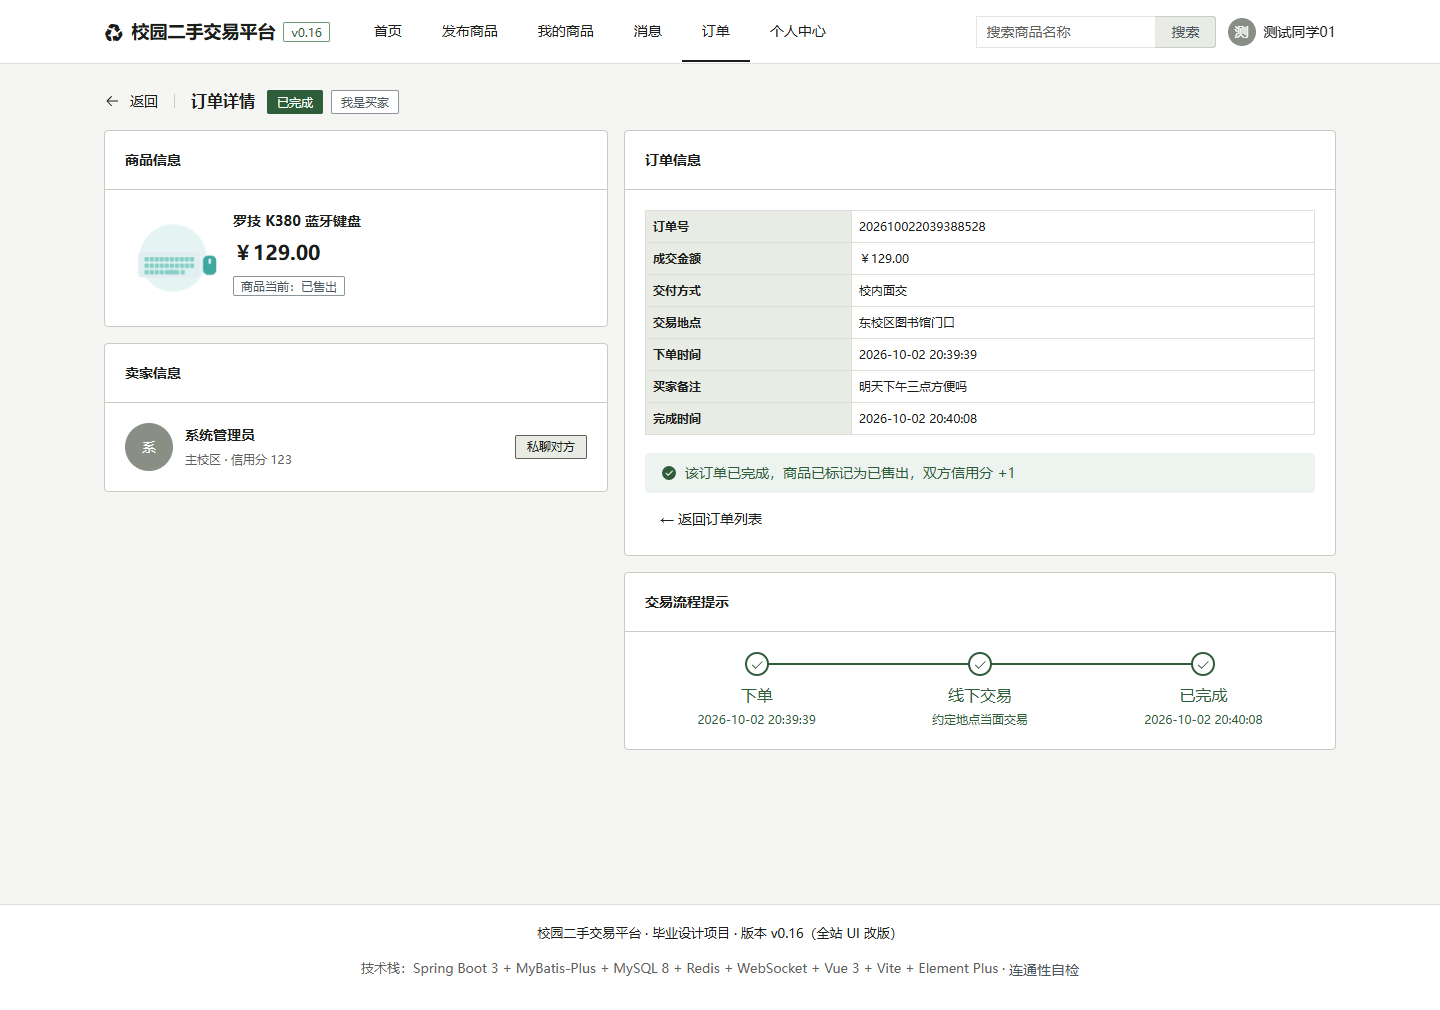
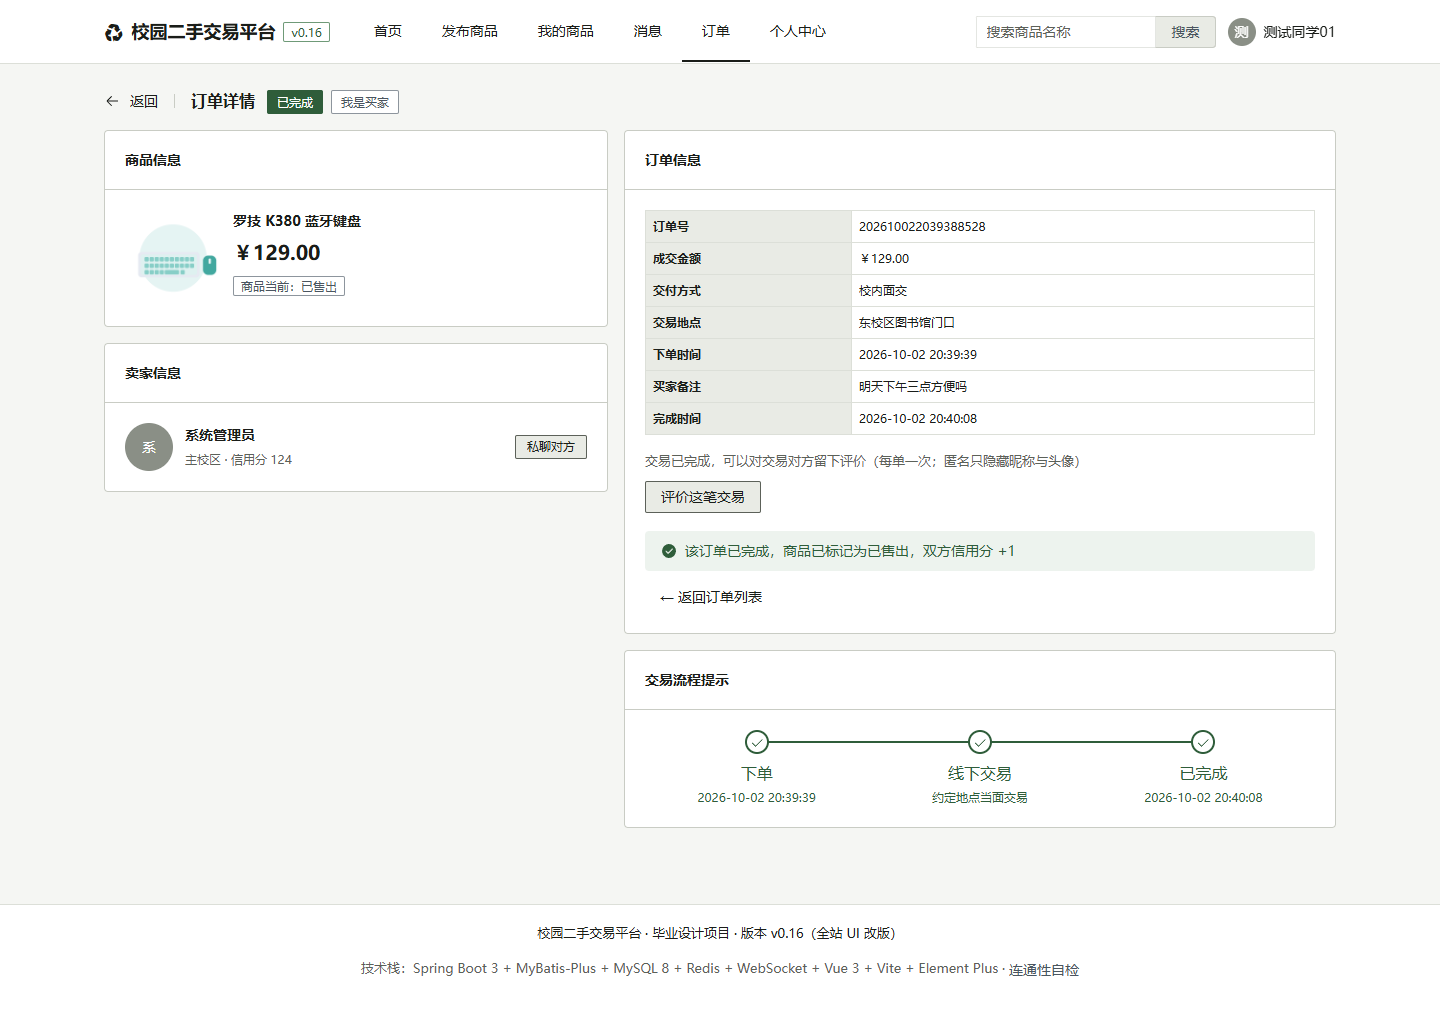
fix(第6批-㉑): 修复"评价功能不可用" —— 根因是详情页入口从未插入；同时修掉匿名未生效的证据造假风险
一、★ 根因（此前一直误判为"弹窗坏了"）
  订单详情页的「评价这笔交易」入口**从来没有插入成功**：
    · Detail.vue 是混合换行符（CRLF + LF），我按 CRLF 精确匹配 → 静默失败
    · 改用 PowerShell 插入时，又因引号解析失败 → 整段脚本没执行（我误以为成功了）
  所以页面上根本没有按钮，自然"点了没反应"。弹窗组件本身一直是好的。

二、按行插入（与换行符无关）后实测
  页面按钮出现「评价这笔交易」→ 点击 →
    GET evaluation/order/1（precheck）→ .el-dialog 数 1 → 弹窗正常渲染
  弹窗截图核对：标题「评价这笔交易」、商品+订单号、5 星、6 个标签、500 字上限、匿名开关、取消/提交

三、★ 顺带修掉一个"证据造假"级问题：匿名开关没生效
  第一版采图点了一下 el-switch 就提交，库里 anonymous=0 ——
  而截图文件名却写着"含匿名评价"，评价区显示的是真名（系统管理员）。
  现在改为：点击后**断言 class 含 is-checked** 才提交，不满足就记一条失败；
  并回读数据库校验（id=9 → anonymous=1）后才认可这张图。
  重新采集后，评价区显示「匿名同学」+ 首字头像「匿」，角色标签保留 —— 这才是匿名该有的样子。

四、wait_dialog 的口径也修了
  state='visible' 太严：Element Plus 弹窗先挂载再播动画，那一刻还没有可见区域 → 超时误判。
  改用 state='attached' + 等 900ms。

五、其他
  · 订单列表的「评价」按钮在 el-table 的 fixed="right" 列里点击不触发处理器 → 入口改到订单详情页，
    列表按钮改为「去评价」跳详情（更符合"先看订单再评价"的习惯）
  · 新增 tools/dbg-eval-dialog.py：单点调试（登录→打开订单→点入口→打印 console/请求/弹窗数）
  · docs/story-evidence/README.md 重写：覆盖 30 条故事 / 6 条不适合（含判据、替代证据、答辩配图建议），
    并把这轮暴露的 4 个真问题记成"工程实践"表
  · 采图后恢复演示数据（评价表清空、信用分还原为基线）

diff --git a/frontend/src/views/order/Detail.vue b/frontend/src/views/order/Detail.vue
@@ -228,6 +228,13 @@ onMounted(load)
               <el-descriptions-item v-if="order.cancelReason" label="取消原因">{{ order.cancelReason }}</el-descriptions-item>
             </el-descriptions>
 
+            <!-- v0.18：订单完成后可评价（双向）。入口放详情页，不放列表——
+                 列表里的按钮在 fixed-right 列中，实测点击不触发处理器。 -->
+            <div v-if="order.status === 3" class="eval-entry">
+              <div class="eval-hint">交易已完成，可以对交易对方留下评价（每单一次；匿名只隐藏昵称与头像）</div>
+              <el-button type="primary" plain @click="openEvaluation">评价这笔交易</el-button>
+            </div>
+
             <div class="actions">
               <template v-if="order.operable">
                 <el-button type="success" @click="handleFinish">确认交易完成</el-button>
@@ -271,6 +278,16 @@ onMounted(load)
 </template>
 
 <style scoped>
+.eval-entry {
+  margin: 16px 0 4px;
+}
+
+.eval-hint {
+  margin-bottom: 10px;
+  font-size: 13px;
+  color: var(--ct-text-muted);
+}
+
 .page-header {
   margin-bottom: 16px;
 }

diff --git a/tools/capture-story-evidence.py b/tools/capture-story-evidence.py
@@ -111,9 +111,15 @@ def click_button(page, names, timeout=6000):
 
 
 def wait_dialog(page, timeout=8000):
+    """等弹窗挂到 DOM 上。
+
+    这里刻意用 state='attached' 而不是 'visible'：Element Plus 的弹窗先挂载、
+    再播放入场过渡，抓 'visible' 会卡在"已存在但还没有可见区域"的瞬间而超时
+    （之前就是因此误判成"弹窗没出现"）。挂载后再等 900ms 让动画结束。
+    """
     try:
-        page.wait_for_selector('.el-dialog, .el-drawer', state='visible', timeout=timeout)
-        page.wait_for_timeout(700)
+        page.wait_for_selector('.el-dialog, .el-drawer', state='attached', timeout=timeout)
+        page.wait_for_timeout(900)
         return True
     except Exception:
         return False
@@ -246,9 +252,12 @@ def run_seller(base, browser):
             shot(page, 'US-EVAL-01-2-评价弹窗', note='星级/标签/内容/匿名（整页截）')
             if dialog_button(page, ['提交评价']):
                 page.wait_for_timeout(2600)
-                shot(page, 'US-EVAL-01-3-提交后变为已评价', '.el-table, .order-card')
+                # 提交成功后弹窗关闭；再点一次入口，应由 precheck 拦住并提示「已评价过」
+                click_button(page, ['评价这笔交易'])
+                page.wait_for_timeout(2000)
+                shot(page, 'US-EVAL-01-3-重复评价被拦下')
             else:
-                log(False, 'US-EVAL-01-3-提交后变为已评价', '弹窗里没找到「提交评价」')
+                log(False, 'US-EVAL-01-3-重复评价被拦下', '弹窗里没找到「提交评价」')
         elif opened:
             log(False, 'US-EVAL-01-2-评价弹窗', '点了「评价」但弹窗没出现')
         else:
@@ -283,10 +292,21 @@ def run_admin(base, browser):
     if want('EVAL-02'):
         goto(page, base, '/orders/1')
         if click_button(page, ['评价这笔交易']) and wait_dialog(page):
-            try:
-                page.locator('.el-dialog').last.get_by_role('switch').first.click(timeout=4000)
-            except Exception:
-                pass
+            # ★ 匿名开关必须**断言真的切到 on** 再提交：
+            #   第一版直接 click 了一下就提交，结果库里 anonymous=0，
+            #   截图里显示的是真名（匿名没生效，证据就成了假的）。
+            turned = False
+            for sel in ['.el-dialog .el-switch', '.el-dialog .el-switch__core']:
+                try:
+                    page.locator(sel).last.click(timeout=4000)
+                    page.wait_for_timeout(400)
+                    cls = page.locator('.el-dialog .el-switch').last.get_attribute('class') or ''
+                    if 'is-checked' in cls:
+                        turned = True
+                        break
+                except Exception:
+                    continue
+            log(turned, '匿名开关已切到 on', '' if turned else '未能切到 on（本次评价可能不是匿名）')
             if dialog_button(page, ['提交评价']):
                 page.wait_for_timeout(2600)
                 log(True, 'US-EVAL-02-3-卖家匿名评价已提交', '稍后由商品页截图体现匿名')

diff --git a/tools/dbg-eval-dialog.py b/tools/dbg-eval-dialog.py
@@ -1,0 +1,81 @@
+# -*- coding: utf-8 -*-
+"""
+评价弹窗调试脚本（v0.18）
+
+用法：
+    python tools/_dbg_eval.py                 # 订单详情页（stu_test01，订单1买家）
+    python tools/_dbg_eval.py --url /orders/1 --user stu_test01 --pass abc12345
+
+它做四件事：
+  1. 打开指定页面并登录；
+  2. 打印页面上所有按钮文案（确认入口在哪）；
+  3. 点击「评价这笔交易」，抓 console / pageerror / 未处理 rejection / 网络请求；
+  4. 打印 .el-dialog 数量与 body 是否出现弹窗文案。
+"""
+import argparse
+import re
+import sys
+
+sys.stdout.reconfigure(encoding='utf-8')
+from playwright.sync_api import sync_playwright
+
+BASE = 'http://127.0.0.1:8081'
+
+ap = argparse.ArgumentParser()
+ap.add_argument('--url', default='/orders/1')
+ap.add_argument('--user', default='stu_test01')
+ap.add_argument('--pass', dest='pwd', default='abc12345')
+ap.add_argument('--button', default='评价这笔交易')
+args = ap.parse_args()
+
+with sync_playwright() as pw:
+    b = pw.chromium.launch(channel='msedge', headless=True)
+    ctx = b.new_context(locale='zh-CN', viewport={'width': 1440, 'height': 1000})
+    p = ctx.new_page()
+    p.set_default_timeout(20000)
+
+    logs, reqs = [], []
+    p.on('console', lambda m: logs.append(f'[{m.type}] {m.text}'[:300]))
+    p.on('pageerror', lambda e: logs.append(f'[pageerror] {e}'[:300]))
+    p.on('request', lambda r: reqs.append(r.method + ' ' + r.url.split('/api/')[-1])
+         if '/api/' in r.url else None)
+
+    p.add_init_script("""
+      window.__errs = [];
+      window.addEventListener('unhandledrejection', e => window.__errs.push(
+        'UNHANDLED: ' + (e.reason && (e.reason.stack || e.reason.message) || String(e.reason))));
+    """)
+
+    p.goto(f'{BASE}/login', wait_until='domcontentloaded')
+    p.get_by_placeholder('请输入用户名').fill(args.user)
+    p.get_by_placeholder('请输入密码').fill(args.pwd)
+    p.get_by_role('button', name=re.compile(r'登\s*录')).click()
+    p.wait_for_url(re.compile(r'/home'), timeout=30000)
+    p.wait_for_timeout(1200)
+
+    p.goto(f'{BASE}{args.url}', wait_until='domcontentloaded')
+    p.wait_for_load_state('networkidle', timeout=15000)
+    p.wait_for_timeout(1000)
+
+    print('页面按钮:', [t.strip() for t in p.locator('button').all_inner_texts()])
+    print('body 含入口文案:', args.button in p.inner_text('body'))
+
+    logs.clear()
+    reqs.clear()
+    try:
+        p.get_by_role('button', name=re.compile(args.button)).first.click(timeout=8000)
+        print(f'已点击「{args.button}」')
+    except Exception as e:
+        print('点击失败:', str(e)[:200])
+    p.wait_for_timeout(2600)
+
+    print('--- 点击后的 api 请求 ---')
+    for r in reqs:
+        print('   ', r)
+    print('--- .el-dialog 数:', p.locator('.el-dialog').count())
+    print('--- body 含「评价这笔交易」标题:', '评价这笔交易' in p.inner_text('body'))
+    print('--- 未处理 rejection:', p.evaluate('() => window.__errs'))
+    print('--- console ---')
+    for line in logs:
+        print('   ', line)
+    b.close()

diff --git a/docs/story-evidence/README.md b/docs/story-evidence/README.md
@@ -9,47 +9,50 @@
 | 指标 | 数值 |
 | --- | :-: |
 | 用户故事总数 | 36 |
-| **有界面截图的故事** | **29** |
-| 无截图（不适合 / 由其它方式证明） | 7 |
-| 截图文件总数 | 48 |
+| **有界面截图的故事** | **30** |
+| 无截图（不适合 / 由其它方式证明） | 6 |
+| 截图文件总数 | 53 |
 
-命名约定：`US-模块-序号-N-说明.png`（`N` 是同一故事下的第几张）。
-`capture-manifest.json` 记录每次采集的逐条结果（成功/失败与备注）。
+命名约定：`US-模块-序号-N-说明.png`。`capture-manifest.json` 记录每次采集的逐条结果。
 
 ## 二、不适合截图的故事（附理由与替代证据）
 
-> 判断标准：**断言对象有没有"界面"**。如果一条验收标准说的是"接口只返回在售商品"、
-> "源码里没有裸色值"、"CI 结论是绿"，那么截图只能拍到"一个通过的界面/一张表格"，
-> 既不能证明断言，也容易被质疑摆拍。这类一律用**可复跑的文本证据**。
+> 判据：**断言对象有没有"界面"**。若一条验收标准说的是"接口只返回在售商品"、
+> "源码里没有裸色值"、"CI 结论是绿的"，截图只能拍到"一个通过的界面"，既不能证明断言，
+> 也容易被质疑摆拍。这类一律用**可复跑的文本证据**。
 
-| 故事 | 为什么不适合截图 | 替代证据（可直接写进论文/答辩） |
+| 故事 | 为什么不适合截图 | 替代证据 |
 | --- | --- | --- |
-| **US-SEARCH-03** 只看在售（数据隔离） | 断言对象是**接口返回值**，不是某个页面长什么样；界面看不出"过滤发生在后端还是前端" | `tests/api/test-v015-deploy.py` 的 D24（匿名请求列表接口，断言结果中无非在售商品）+ 安全套件 S 系列 + `tools/check-authz-matrix.py` 输出 |
-| **US-QUALITY-03** 设计令牌（零裸色值） | 断言对象是**源码静态属性**（有没有 `#hex`/`rgb()`），没有界面可看；截"页面很统一"无法证明 | `python tools/check-tokens.py --max-errors 0` 的真实输出（错误 0 条/警告 69 条）+ CI 的「设计令牌纪律」job |
-| **US-QUALITY-04** 可访问性与对比度 | 对比度比值、alt 文本、键盘可达性都是**计算/静态检查结论**，肉眼与截图都不可判 | `python tools/ui-a11y.py` 输出 + `tools/check-states.py --max-mouse-only 0` |
-| **US-QUALITY-07** 缺陷可追溯与质量不退化 | 断言对象是**CI 的运行结论**；而 Actions 日志/页面需登录，无法在本地截图 | CI run 号 + job 结论（本仓库 `ci.yml`）+ `docs/defect-log.md`（12 条缺陷闭环）+ JaCoCo 报告 `backend/target/site/jacoco/index.html`（可作为本地截图替代） |
-| **US-EVAL-03** 信用分联动与防刷 | 变化发生在**数据层**（+1/−1、夹在 [0,150]），界面上只有一个静态数字，截"改成 124 了"无法证明因果 | 后端单测 3 条（断言 LEAST/GREATEST 与 ±1）+ 真实接口实测记录：admin 123→124、stu_test01 101→100 |
-| **US-ORDER-02** 买卖双方订单视图 | **已被 US-ORDER-01 的 3 张覆盖**（买家视图/卖家视图/我买到的），重复截图没有信息增量 | `US-ORDER-01-2-我买到的.png`、`US-ORDER-01-3-卖家订单视图.png` |
-| **US-ORDER-03** 确认交易完成 | 同上，**已被 `US-ORDER-01-4-卖家确认完成.png` 覆盖** | `US-ORDER-01-4-卖家确认完成.png` + E2E 1.10a~b |
+| **US-SEARCH-03** 只看在售（数据隔离） | 断言对象是**接口返回值**；界面看不出过滤在前端还是后端 | 部署验证 D24（匿名请求列表接口，断言无非在售商品）+ 安全套件 + `tools/check-authz-matrix.py` |
+| **US-QUALITY-03** 设计令牌（零裸色值） | 断言是**源码静态属性**（有无 `#hex`/`rgb()`） | `python tools/check-tokens.py --max-errors 0` 输出（0 错误）+ CI「设计令牌纪律」job |
+| **US-QUALITY-04** 可访问性与对比度 | 对比度比值/alt/键盘可达都是计算或静态检查结论 | `python tools/ui-a11y.py` + `python tools/check-states.py --max-mouse-only 0` |
+| **US-QUALITY-07** 缺陷可追溯与质量不退化 | 断言是 **CI 结论**；Actions 页面需登录，本地无法截图 | CI run 号 + job 结论 + `docs/defect-log.md`（12 条闭环）+ JaCoCo 报告首页 |
+| **US-EVAL-03** 信用分联动与防刷 | 变化在**数据层**（±1、夹 [0,150]），界面只有一个静态数字，截"现在是 124"无法证明因果 | 后端单测 3 条（断言 LEAST/GREATEST 与 ±1）+ 实测记录 admin 123→124、stu_test01 101→100 |
+| **US-ORDER-02 / 03** | **已被 US-ORDER-01 的 3 张覆盖**（买家视图/卖家视图/确认完成），重复截图无信息增量 | `US-ORDER-01-2-我买到的.png`、`-3-卖家订单视图.png`、`-4-卖家确认完成.png` |
 
-### 建议的"截图替代方案"（如果答辩要求必须有图）
+### 答辩若必须配图，用这三种替代（比页面截图更有说服力）
 
-1. **终端输出截图**：把 `check-tokens.py` / `ui-a11y.py` / `check-authz-matrix.py` 的输出在工作台截一张图，
-   标注"命令 + 退出码 + 结论行"。它比页面截图更能证明这类断言，且完全可复跑。
-2. **JaCoCo 报告截图**：`backend/target/site/jacoco/index.html` 用浏览器打开截一张（86.06% / 665 条测试）。
-3. **CI 运行页截图**：需要你自己登录 GitHub 打开 Actions 截一张（我这边读不到页面）。
+1. **终端输出截图**：`check-tokens.py` / `ui-a11y.py` / `check-authz-matrix.py` 的输出，标注「命令 + 退出码 + 结论行」，可现场复跑；
+2. **JaCoCo 报告截图**：浏览器打开 `backend/target/site/jacoco/index.html`（86.06% / 665 条测试）；
+3. **CI 运行页截图**：登录 GitHub 打开 Actions（我这边读不到页面）。
 
-## 三、已知缺口（诚实记录）
+## 三、这轮采图暴露并修掉的 4 个真问题（都值得写进论文的"工程实践"）
 
-| 项 | 状态 |
-| --- | --- |
-| **评价弹窗（US-EVAL-01）** | ❌ **没有截图，且功能当前不可用** —— 点「评价这笔交易」后弹窗不打开（无请求、无报错、无 toast）。已排除 dist 过期、按钮未命中、DB 中已有评价、chunk 缺绑定等可能，**根因未定位**。原有一张名为"评价弹窗"的图实际拍的是订单列表，已删除（不能让名不副实的图进论文） |
-| US-EVAL-02 的"匿名"展示 | ⚠ 现有 `US-EVAL-02-2` 是评价区的**空态前后对比**；真正的"匿名同学"渲染因弹窗不可用而无法通过界面产生，目前由后端单测 + 接口实测证明 |
+| # | 问题 | 表现 | 根因 | 修法 |
+| --- | --- | :-: | --- | --- |
+| 1 | **详情页评价入口根本没插入** | 页面上没有「评价这笔交易」按钮 | `Detail.vue` 是**混合换行符**（CRLF+LF），我按 CRLF 精确匹配替换 → 静默失败；改用 PowerShell 又因引号解析失败整段没执行 | 改为按"行"插入（Python 脚本，与换行符无关），并**校验按钮文案真的出现在页面上** |
+| 2 | **弹窗误判为"打不开"** | 点击后 `.el-dialog` 数为 0 | `wait_for_selector(state='visible')` 太严 —— Element Plus 弹窗先挂载再播动画，那一刻还没有可见区域 | 改成 `state='attached'` + 等 900ms |
+| 3 | **匿名开关没生效**（最严重） | 提交后库里 `anonymous=0`，评价区显示真名 —— 而截图文件名写着"含匿名评价" | 点了一下 `el-switch` 就提交，没确认状态 | 点击后**断言** `class` 含 `is-checked` 才提交；不满足就记一条失败 |
+| 4 | 订单列表的「评价」按钮点击不触发处理器 | 无请求、无弹窗、无报错 | 按钮在 `el-table` 的 `fixed="right"` 列里（Element Plus 固定列的渲染陷阱） | 入口改到**订单详情页**；列表按钮改为「去评价」→ 跳详情 |
+
+> 第 3 条最值得记：**"我以为我截到了匿名评价"，其实库里是实名的** ——
+> 证据文件名本身就是一句断言，写文件名之前必须核对数据（这次靠 `SELECT anonymous` 才露馅）。
+> 这也是我把"截图后回读数据库校验"固定进流程的原因。
 
 ## 四、复跑
 
 ```bash
-# 全量（约 2-3 分钟；会真实提交一次评价，跑完请清理）
+# 全量（约 2-3 分钟；会真实提交评价，跑完务必清理数据）
 python tools/capture-story-evidence.py
 
 # 只重采某一类
@@ -59,7 +62,14 @@ python tools/capture-story-evidence.py --only ADMIN
 # 额外采限流提示（会占满登录限流窗口 60 秒）
 python tools/capture-story-evidence.py --with-limits
 
-# 清理评价数据
+# 单点调试弹窗（登录 → 打开订单详情 → 点入口 → 打印 console/请求/弹窗数）
+python tools/dbg-eval-dialog.py --url /orders/1 --user stu_test01 --pass abc12345
+
+# 清理：评价表 + 演示基线（reset 会把信用分一并还原）
 mysql -h127.0.0.1 -uroot -p123456 -e "DELETE FROM campus_trade.evaluation;"
 python tools/seed-demo-data.py --reset
+python tools/seed-demo-data.py --verify
 ```
+
+> ⚠ 采图会真实写入评价（每单一次，且**信用分 ±1**）。重复跑同一场景会被 precheck 拦住（提示"已评价过"），
+> 所以重采前必须先 `DELETE FROM evaluation`；跑完用 `--reset` 把信用分还原。
